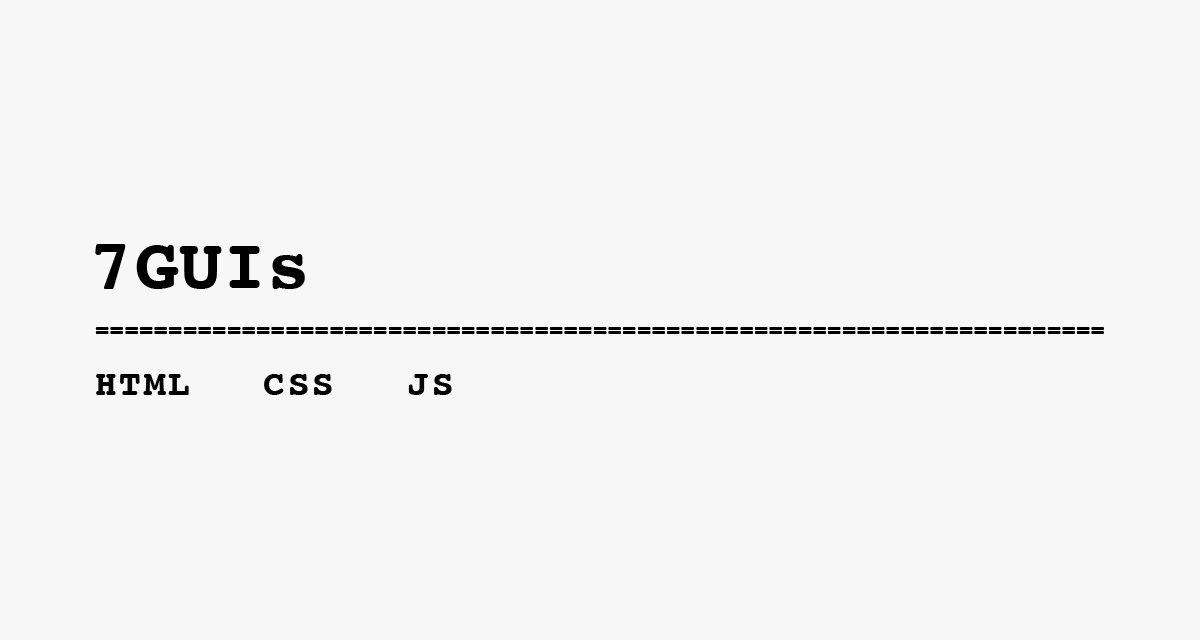
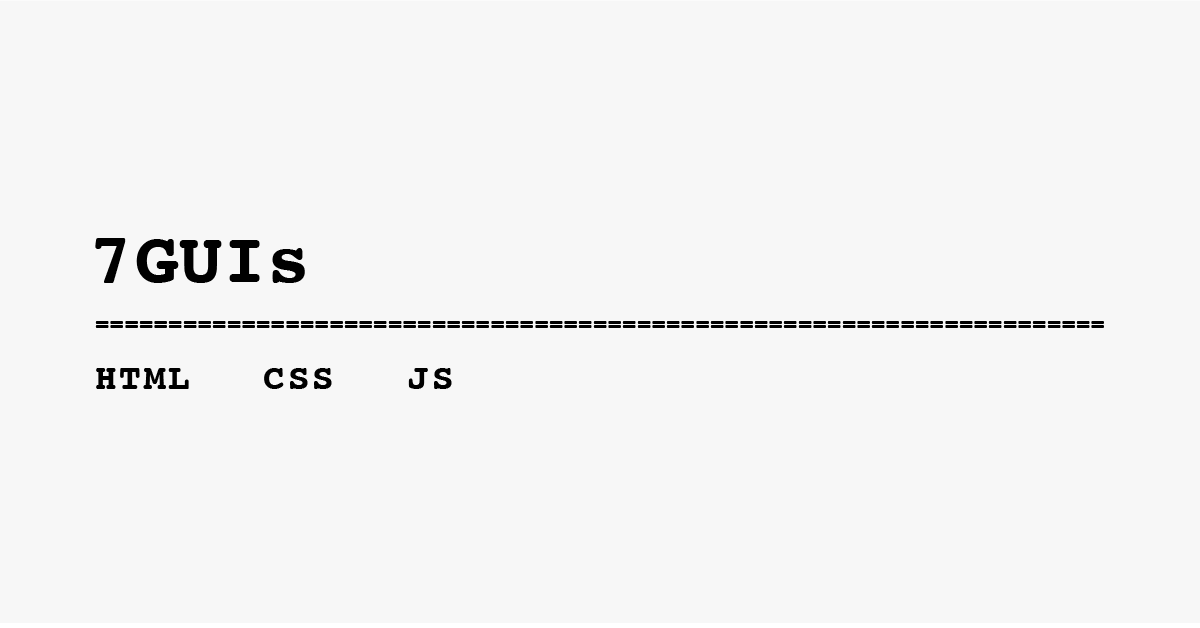
Add & update landing page head tags

diff --git a/docs/index.html b/docs/index.html
@@ -1,5 +1,5 @@
 <!DOCTYPE html>
-<html>
+<html lang="en">
   <head>
     <meta charset="utf-8" />
     <meta content="width=device-width, initial-scale=1" name="viewport" />
@@ -7,15 +7,20 @@
     <link rel="stylesheet" href="styles.css" />
 
     <title>7GUIs</title>
-    <link rel="icon" href="/favicon.ico" />
+    <link rel="icon" href="/favicon.ico" sizes="any" />
 
     <meta property="og:title" content="7GUIs - HTML, CSS & JS" />
     <meta property="og:description" content="The 7GUIs tasks written in vanilla HTML, CSS & JS." />
     <meta property="og:type" content="website" />
     <meta property="og:url" content="https://7guis.bradwoods.io/" />
     <meta property="og:image" content="https://7guis.bradwoods.io/ogImage.png" />
-    <meta property="og:image:height" content="640" />
+    <meta property="og:image:height" content="627" />
     <meta property="og:image:width" content="1200" />
+    <meta property="og:image:alt" content="The dashed line with '7 GUIs' written above it. 'HTML, CSS, JS' below it." />
+
+    <meta property="article:published_time" content="2021-09-21T00:00:00+00:00" />
+    <meta property="article:modified_time" content="2021-12-20T00:00:00+00:00" />
+
     <meta name="twitter:card" content="summary_large_image" />
 
     <!-- Global site tag (gtag.js) - Google Analytics -->
